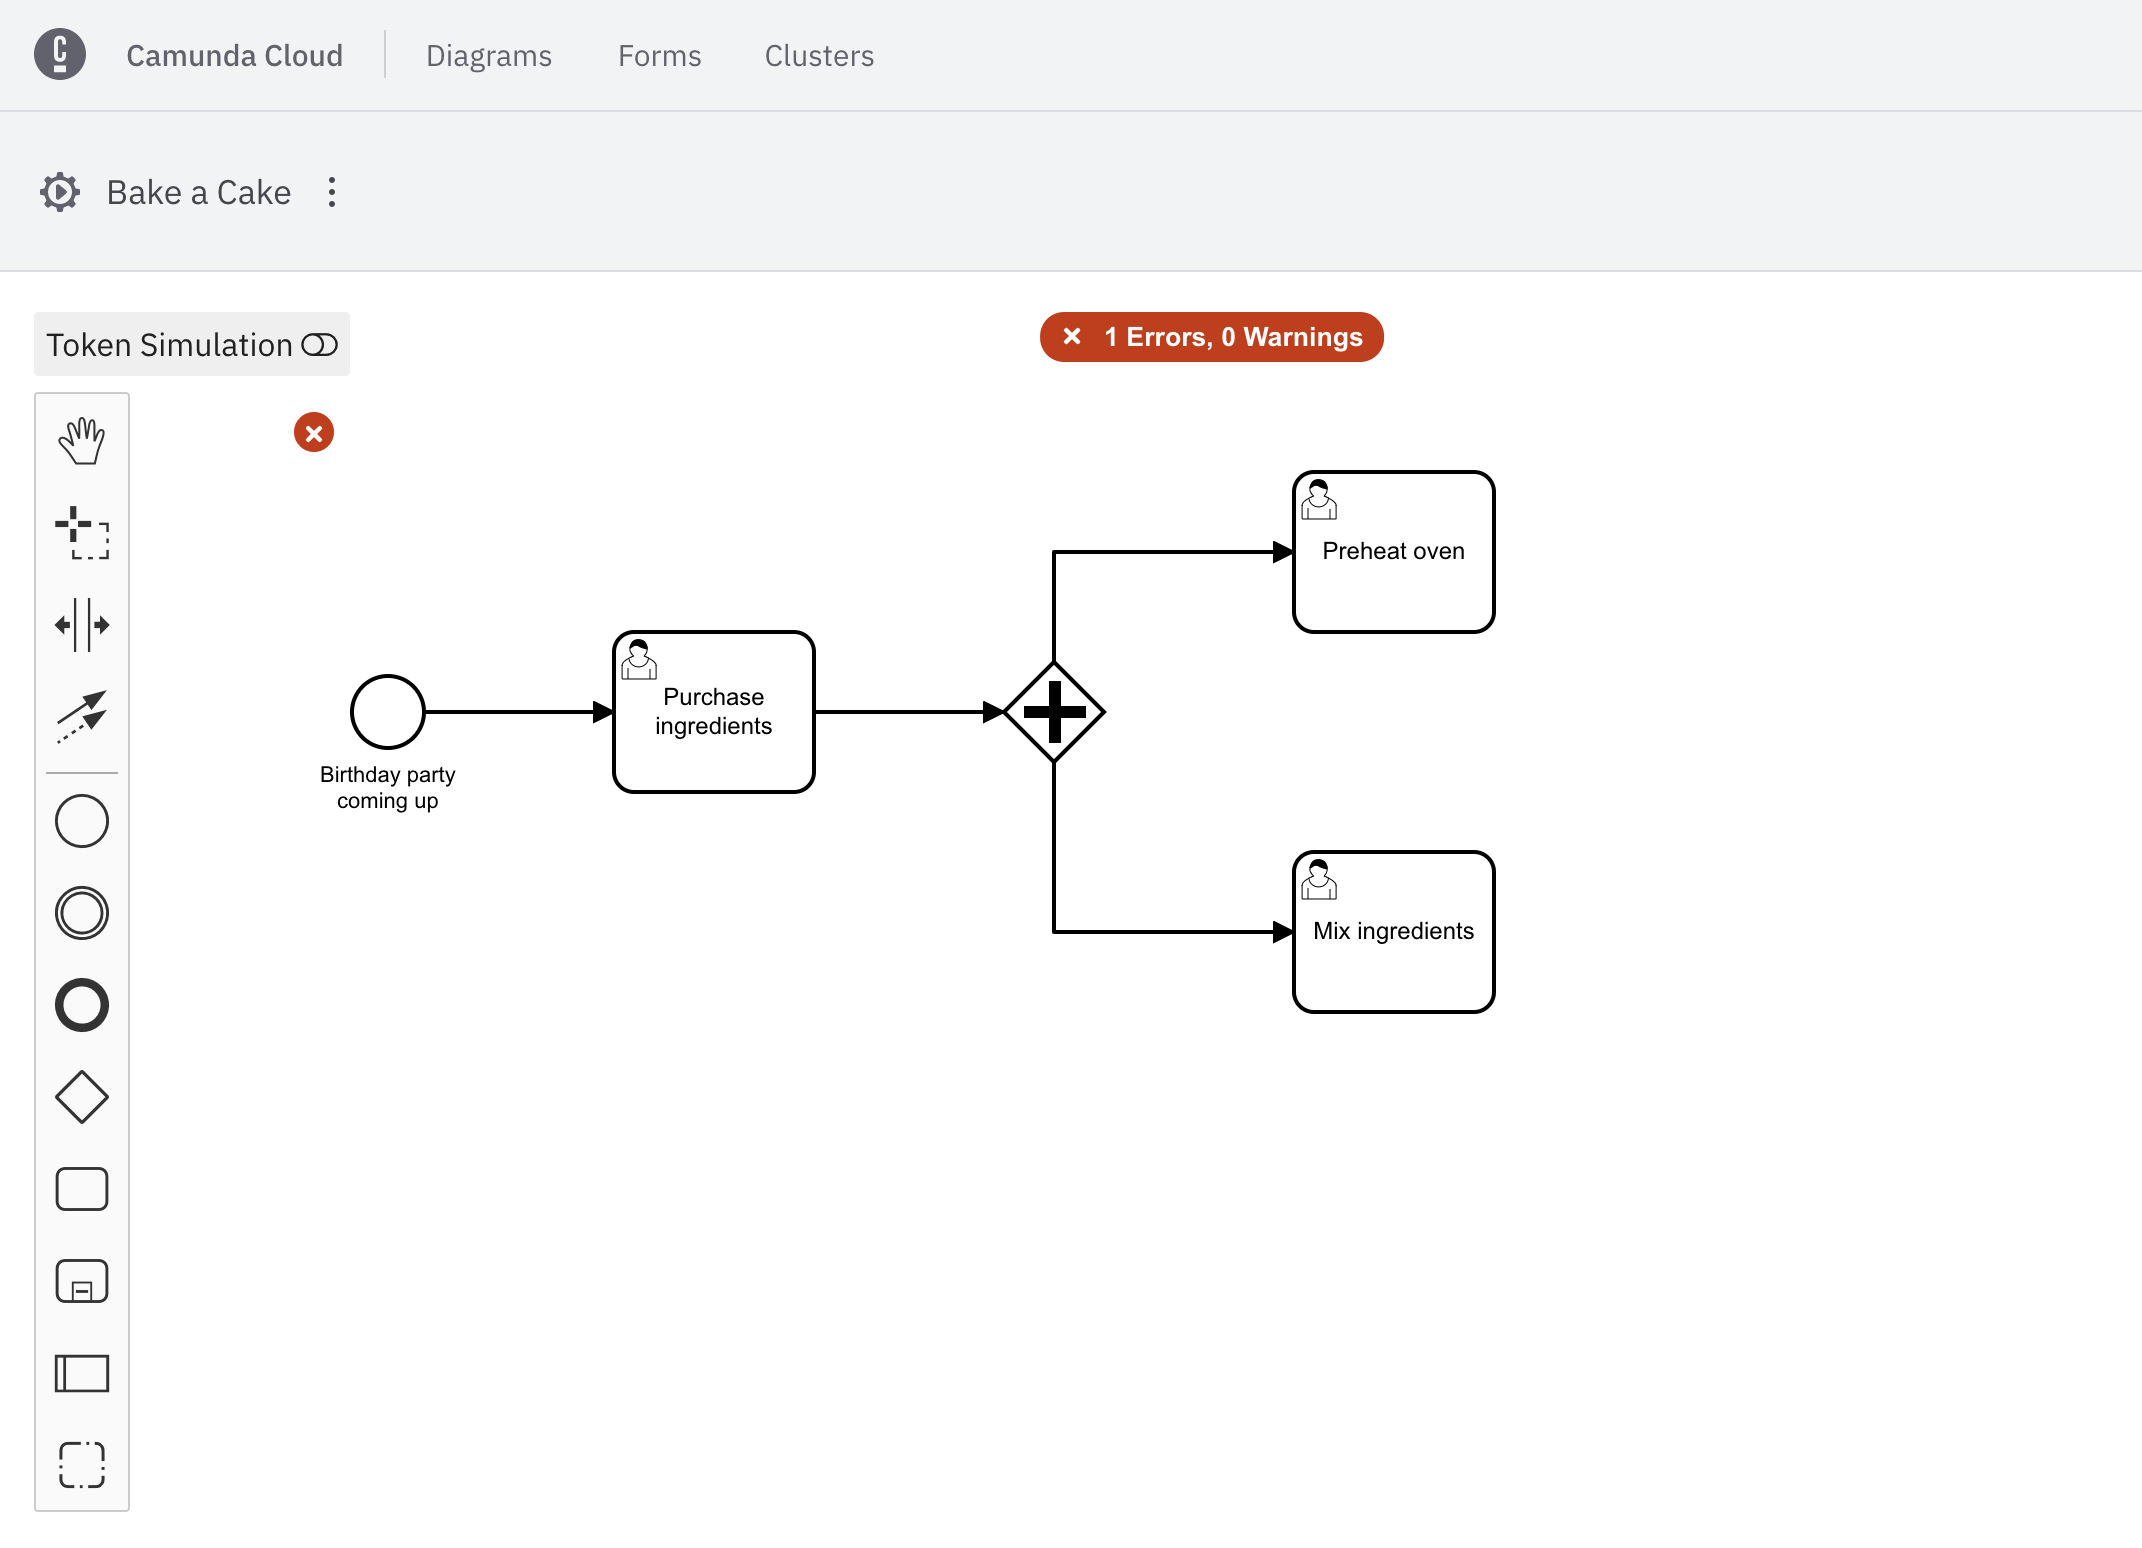
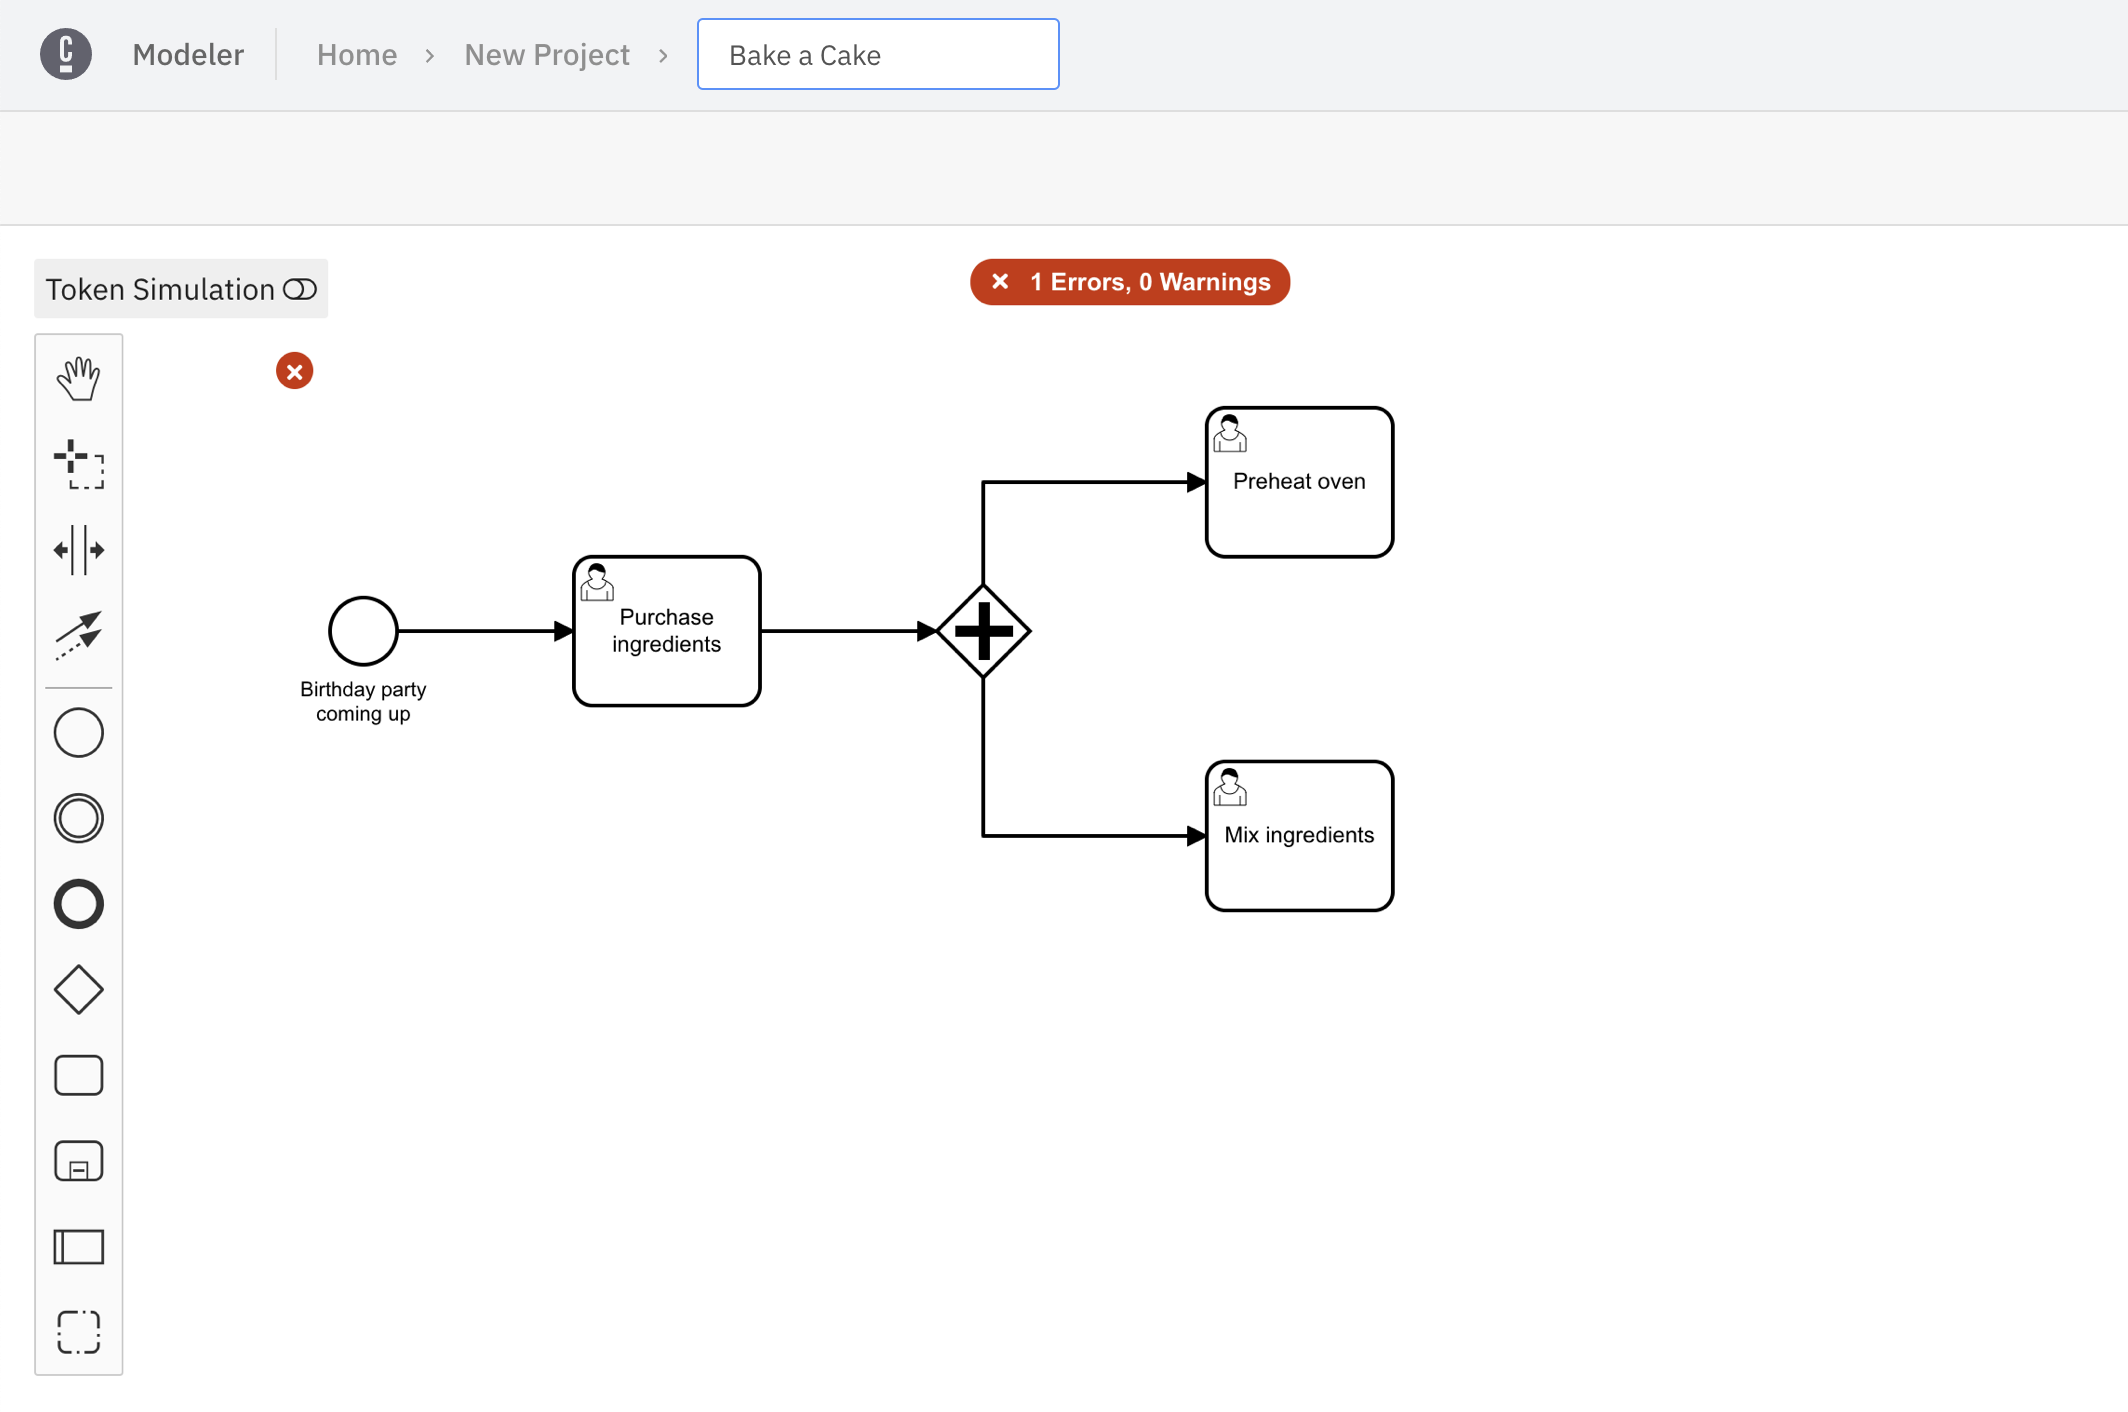
docs(web-modeler): rewrite automating-a-process-using-bpmn.md and use updated imgs

diff --git a/docs/guides/automating-a-process-using-bpmn.md b/docs/guides/automating-a-process-using-bpmn.md
@@ -29,9 +29,10 @@ To get started, ensure you’ve [created a Camunda Cloud account](./getting-star
 
 Once logged in to your Camunda Cloud account, take the following steps:
 
-1. Click the **Diagrams** tab in the top navigation bar.
-2. Click **Create New Diagram**.
-3. Select the three vertical dots next to **New Diagram** on the top left corner of the page to rename the diagram. In this case, we'll name it "Bake a Cake."
+1. Click on the **Modeler** tab at the top of the page
+2. Open any project from your Web Modeler home view
+3. Click the blue **New** button and choose **BPMN Diagram**
+4. Right after creating your diagram you can name it by simply replacing the **New Diagram** text with the name of your choice.. In this case, we'll name it "Bake a Cake."
 
 ### BPMN elements
 
@@ -62,31 +63,29 @@ Take the following steps:
 5. Attach the next gateway once these two tasks have completed to move forward.
 6. Add a user task to bake the cake, and finally a user task to ice the cake.
 7. Add an end event, represented by a bold circle.
-8. Click **Save**.
+8. The Web Modeler will autosave every change you make
 
 ![completed bpmn diagram](./img/complete-baking-cake-bpmn.png)
 
 :::note
-You can also import a BPMN diagram with Web Modeler. Click **Import New Diagram** in the context menu.
+You can also import a BPMN diagram with Web Modeler. See how to do that [here](../components/modeler/web-modeler/import-diagram.md).
 :::
-
-![import diagram](./img/import-diagram.png)
 
 ## Execute your process diagram
 
 :::note
-If a BPMN diagram is only saved, it has no effect on your cluster(s). It can be used by all members of your organization.
+When you change a diagram and it is autosaved, that has no effect on your cluster(s).
 
 When you deploy the diagram, it becomes available on the selected cluster and new instances can start.
 :::
 
-To execute your completed process diagram, click **Save**. Then, click **Execute > Save and Deploy**.
+To execute your completed process diagram, click the blue **Deploy Diagram** button.
 
-You can now start a new process instance to initiate your process diagram. Click the **Execute** dropdown, and then **Start Instance**.
+You can now start a new process instance to initiate your process diagram. Click the blue **Start Instance** button.
 
-You can now monitor your instances in [Operate](./components/operate/index.md). From your diagram, click the **Execute** dropdown, and **View Process Instances**. This will automatically take you to Camunda Operate to monitor your running instances.
+You can now monitor your instances in [Operate](./components/operate/index.md). From your diagram, click the honeycomb icon button next to the Start Instance button, and **View Process Instances**. This will automatically take you to Camunda Operate to monitor your running instances.
 
-You can also visit an ongoing list of user tasks required in your BPMN diagram. Click the **Execute** dropdown, and **View User Tasks** to automatically be taken to [Tasklist](./components/tasklist/introduction.md).
+You can also visit an ongoing list of user tasks required in your BPMN diagram. Click the honeycomb icon button next to the Start Instance button, and **View User Tasks** to automatically be taken to [Tasklist](./components/tasklist/introduction.md).
 
 ## Additional resources and next steps
 
